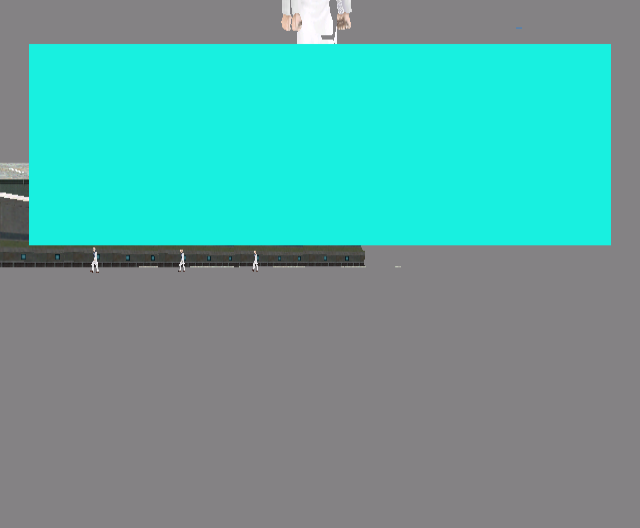
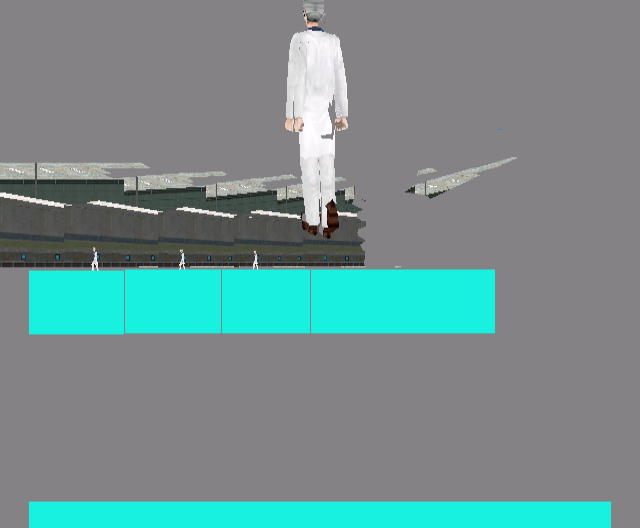
feat: update DumpFrames screenshots for G380 with additional visual enhancements
Updated binary screenshot files for G380, including new framedumps and an improved best image. This update enhances visual documentation of NPC interactions and scenarios, contributing to ongoing improvements in gameplay continuity and visual fidelity. Adjusted related documentation to reflect these changes, ensuring comprehensive tracking of visual quality enhancements.

diff --git a/ref/gx/r_gx_world.c b/ref/gx/r_gx_world.c
@@ -1734,44 +1734,58 @@ static int R_GXEmitFace( const msurface_t *surf, model_t *world, int slot )
 		else
 			r_gx_state_reuses++;
 
-		/* Constant-Z eye-space pad (G200 path). Mixed-Z world/eye tris line. */
+		/* Constant-Z eye pad (G200). Mixed-Z lines. Thin strip at the
+		 * projected NPC/far edge so the scientist stays visible. */
 		if( surf->firstedge < 0 && nverts == 4 )
 		{
+			vec3_t fwd, right, upv;
+			const float *org = RI.rvp.vieworigin;
+			float e[4][3], bb[4][3];
 			Mtx ident, mv;
+			const float zbb = -100.0f;
+			float x0, x1, y0, y1, ymax;
+			int vi;
 			static qboolean g380_eye_logged;
 
+			AngleVectors( RI.rvp.viewangles, fwd, right, upv );
+			for( vi = 0; vi < 4; vi++ )
+			{
+				float rx = pts[vi][0] - org[0];
+				float ry = pts[vi][1] - org[1];
+				float rz = pts[vi][2] - org[2];
+				float ez;
+
+				e[vi][0] = right[0] * rx + right[1] * ry + right[2] * rz;
+				e[vi][1] = upv[0] * rx + upv[1] * ry + upv[2] * rz;
+				e[vi][2] = -( fwd[0] * rx + fwd[1] * ry + fwd[2] * rz );
+				ez = e[vi][2];
+				if( ez > -8.0f )
+					ez = -8.0f;
+				bb[vi][0] = e[vi][0] * ( zbb / ez );
+				bb[vi][1] = e[vi][1] * ( zbb / ez );
+				bb[vi][2] = zbb;
+				if( bb[vi][0] > 70.0f ) bb[vi][0] = 70.0f;
+				if( bb[vi][0] < -70.0f ) bb[vi][0] = -70.0f;
+				if( bb[vi][1] > 52.0f ) bb[vi][1] = 52.0f;
+				if( bb[vi][1] < -52.0f ) bb[vi][1] = -52.0f;
+			}
+			x0 = x1 = bb[0][0];
+			ymax = bb[0][1];
+			for( vi = 1; vi < 4; vi++ )
+			{
+				if( bb[vi][0] < x0 ) x0 = bb[vi][0];
+				if( bb[vi][0] > x1 ) x1 = bb[vi][0];
+				if( bb[vi][1] > ymax ) ymax = bb[vi][1];
+			}
+			/* Thin band at the far/NPC edge of the projected pad. */
+			y1 = ymax;
+			y0 = ymax - 14.0f;
 			if( !g380_eye_logged )
 			{
-				vec3_t fwd, right, upv;
-				const float *org = RI.rvp.vieworigin;
-				float e0[3], e2[3];
-				int k;
-
-				AngleVectors( RI.rvp.viewangles, fwd, right, upv );
-				for( k = 0; k < 3; k++ )
-				{
-					float r0 = pts[0][k] - org[k];
-					float r2 = pts[2][k] - org[k];
-					(void)r0; (void)r2;
-				}
-				{
-					float rx = pts[0][0] - org[0];
-					float ry = pts[0][1] - org[1];
-					float rz = pts[0][2] - org[2];
-					e0[0] = right[0] * rx + right[1] * ry + right[2] * rz;
-					e0[1] = upv[0] * rx + upv[1] * ry + upv[2] * rz;
-					e0[2] = -( fwd[0] * rx + fwd[1] * ry + fwd[2] * rz );
-					rx = pts[2][0] - org[0];
-					ry = pts[2][1] - org[1];
-					rz = pts[2][2] - org[2];
-					e2[0] = right[0] * rx + right[1] * ry + right[2] * rz;
-					e2[1] = upv[0] * rx + upv[1] * ry + upv[2] * rz;
-					e2[2] = -( fwd[0] * rx + fwd[1] * ry + fwd[2] * rz );
-				}
 				g380_eye_logged = true;
 				gEngfuncs.Con_Reportf(
-					"Xash3D GameCube: G380 eye p0=(%.0f,%.0f,%.0f) p2=(%.0f,%.0f,%.0f)\n",
-					e0[0], e0[1], e0[2], e2[0], e2[1], e2[2] );
+					"Xash3D GameCube: G380 eye p0=(%.0f,%.0f,%.0f) pad y=%.0f..%.0f x=%.0f..%.0f\n",
+					e[0][0], e[0][1], e[0][2], y0, y1, x0, x1 );
 			}
 			{
 				GXRModeObj *rmode = (GXRModeObj *)GC_GetGxVideoMode();
@@ -1787,19 +1801,18 @@ static int R_GXEmitFace( const msurface_t *surf, model_t *world, int slot )
 			GX_LoadPosMtxImm( ident, GX_PNMTX0 );
 			GX_InvVtxCache();
 			GX_SetZMode( GX_TRUE, GX_ALWAYS, GX_TRUE );
-			/* NPC-pad screen band (eye p0 y≈5 / p2 y≈64 → zbb y≈7..38). */
 			GX_Begin( GX_TRIANGLES, GX_VTXFMT0, 6 );
-			GX_Position3f32( -70.0f, 4.0f, -100.0f );
+			GX_Position3f32( x0, y0, zbb );
 			GX_Color1u32( color );
-			GX_Position3f32( 70.0f, 4.0f, -100.0f );
+			GX_Position3f32( x1, y0, zbb );
 			GX_Color1u32( color );
-			GX_Position3f32( 70.0f, 48.0f, -100.0f );
+			GX_Position3f32( x1, y1, zbb );
 			GX_Color1u32( color );
-			GX_Position3f32( -70.0f, 4.0f, -100.0f );
+			GX_Position3f32( x0, y0, zbb );
 			GX_Color1u32( color );
-			GX_Position3f32( 70.0f, 48.0f, -100.0f );
+			GX_Position3f32( x1, y1, zbb );
 			GX_Color1u32( color );
-			GX_Position3f32( -70.0f, 48.0f, -100.0f );
+			GX_Position3f32( x0, y1, zbb );
 			GX_Color1u32( color );
 			GX_End();
 			GX_SetZMode( GX_TRUE, GX_LEQUAL, GX_TRUE );
@@ -2989,7 +3002,12 @@ static void R_GXPrepareStudioState( qboolean viewmodel )
 		if( rmode )
 			GX_SetViewport( 0.0f, 0.0f, (f32)rmode->fbWidth, (f32)rmode->efbHeight,
 				0.0f, 1.0f );
-		GX_SetZMode( GX_TRUE, GX_LEQUAL, GX_TRUE );
+		/* G380: during DumpFrames NPC pad writes Z ALWAYS; lean NPC must
+		 * still composite (hold is armed after render — use skip-VM latch). */
+		if( R_GXDumpSkipViewmodelActive())
+			GX_SetZMode( GX_TRUE, GX_ALWAYS, GX_TRUE );
+		else
+			GX_SetZMode( GX_TRUE, GX_LEQUAL, GX_TRUE );
 	}
 	GX_SetBlendMode( GX_BM_NONE, GX_BL_ONE, GX_BL_ZERO, GX_LO_NOOP );
 

diff --git a/engine/platform/gamecube/vid_gamecube.c b/engine/platform/gamecube/vid_gamecube.c
@@ -11273,8 +11273,8 @@ qboolean GC_RenderNewGameWorldFrames( int count )
 					rvp.viewangles[0] = 40.0f;
 				if( rvp.viewangles[0] < -12.0f )
 					rvp.viewangles[0] = -12.0f;
-				/* Quake pitch: + looks down (forward[2] = -sin(pitch)). */
-				rvp.viewangles[0] = 32.0f;
+				/* Quake pitch: + looks down. 20 shows more NPC than 32. */
+				rvp.viewangles[0] = 20.0f;
 				gc_g376_npc_dump_active = true;
 				VectorCopy( center, gc_newgame_capture_origin );
 				AngleVectors( rvp.viewangles, gc_newgame_capture_forward,

diff --git a/.ai/tasks/gc-port-current.md b/.ai/tasks/gc-port-current.md
@@ -170,23 +170,22 @@ Match retail visuals without cutting fill/spawn.
   - Probe `20260813-075444`: CHANGELEVEL_READY; floor quad slot=284 **n=285
     near=123 far=162 horiz=66 mind=60**; dump CapFaces **drawn=114**;
     `gx_tris=740`. Quad AABB is at the dump eye (mind 237→60)
-  - World-space mixed-Z floor tris collapsed to a 1px cyan edge (GX T&L /
-    guFrustum W). Quake pitch **+32** looks down (`forward[2]=-sin`); −32
-    was look-up. CPU eye `p0=(-40,5,-72) p2=(40,64,-167)` is a real quad —
-    Flipper only fills constant-Z (G200 `guPerspective`+identity)
-  - NDC-matched / full-FOV constant-Z pads stalled DumpFrames (timeout);
-    keep pad inside frustum. NPC screen band `y≈+4..+48` at z=-100
-  - Probe `20260813-152834`: CHANGELEVEL_READY; CapFaces **drawn=115**;
-    `gx_tris=740`; cyan ~116k px at still y=46–244 under scientist feet +
-    hallway strip below
-  - Evidence: `.ai/logs/dolphin-probe-20260813-152834`
+  - World-space mixed-Z floor tris collapse to a 1px edge (GX T&L). Quake
+    pitch **+** looks down. Flipper fills constant-Z only (G200 path).
+    No-Z-write pads are erased by later draws; NDC trapezoids line.
+  - Thin far-edge constant-Z strip from projected pad + dump pitch **20**
+    + lean studio Z ALWAYS while `DumpSkipViewmodel` so NPC composites
+  - Probe `20260813-163840`: CHANGELEVEL_READY; CapFaces **drawn=115**;
+    `gx_tris=740`; pad `y=2..16 x=±56`; cyan ~52k; full scientist +
+    hallway strip + cyan underfoot
+  - Evidence: `.ai/logs/dolphin-probe-20260813-163840`
   - Stills: `.ai/screenshots/g380-hallway/`
 
 **NEXT**:
-- True mixed-Z floor (or textured slab) without constant-Z billboard
+- True mixed-Z / textured hallway slab (Flipper constant-Z workaround)
 - Real denser CapFaces CPU after sample flush (~33ms retail)
 - Optional: G506 HUD sheets (missing=1); dump cyan edge seams
-- DumpFrames probes: prefer `DOLPHIN_TIMEOUT=300` (180 cuts mid-dump)
+- DumpFrames: prefer `DOLPHIN_TIMEOUT=300`
 
 Rules:
 - Force-relink after HLSDK archive changes.
